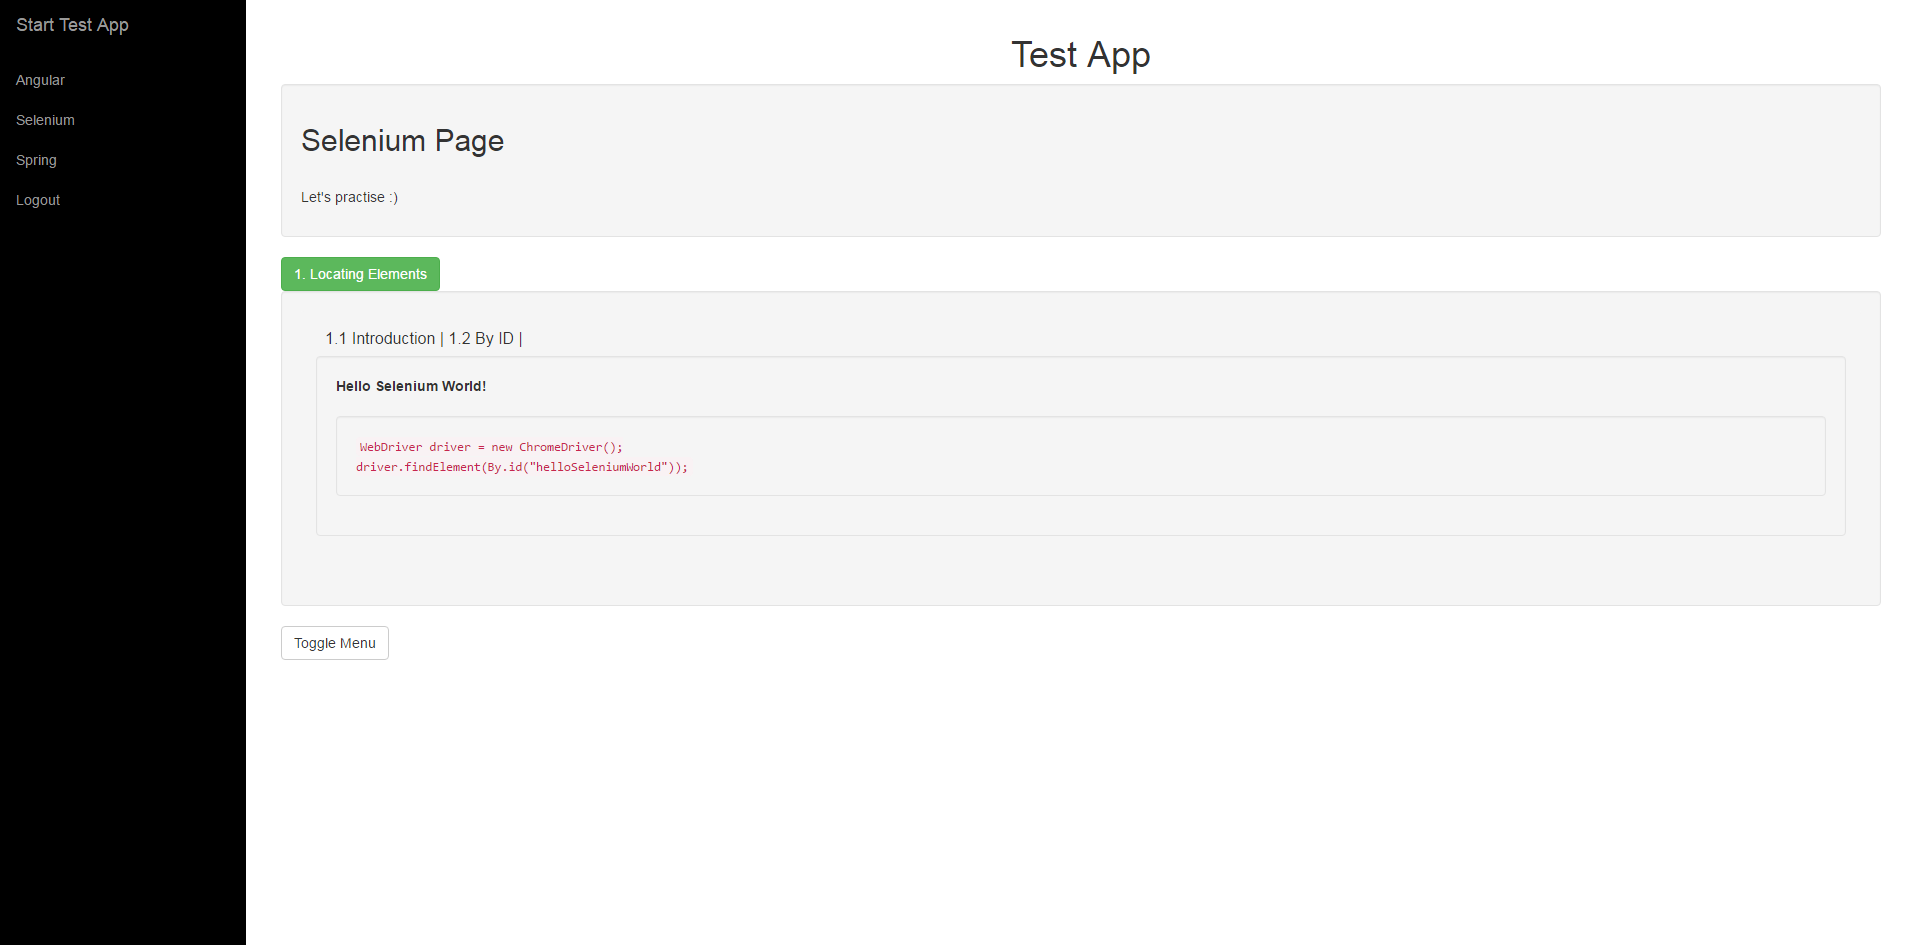
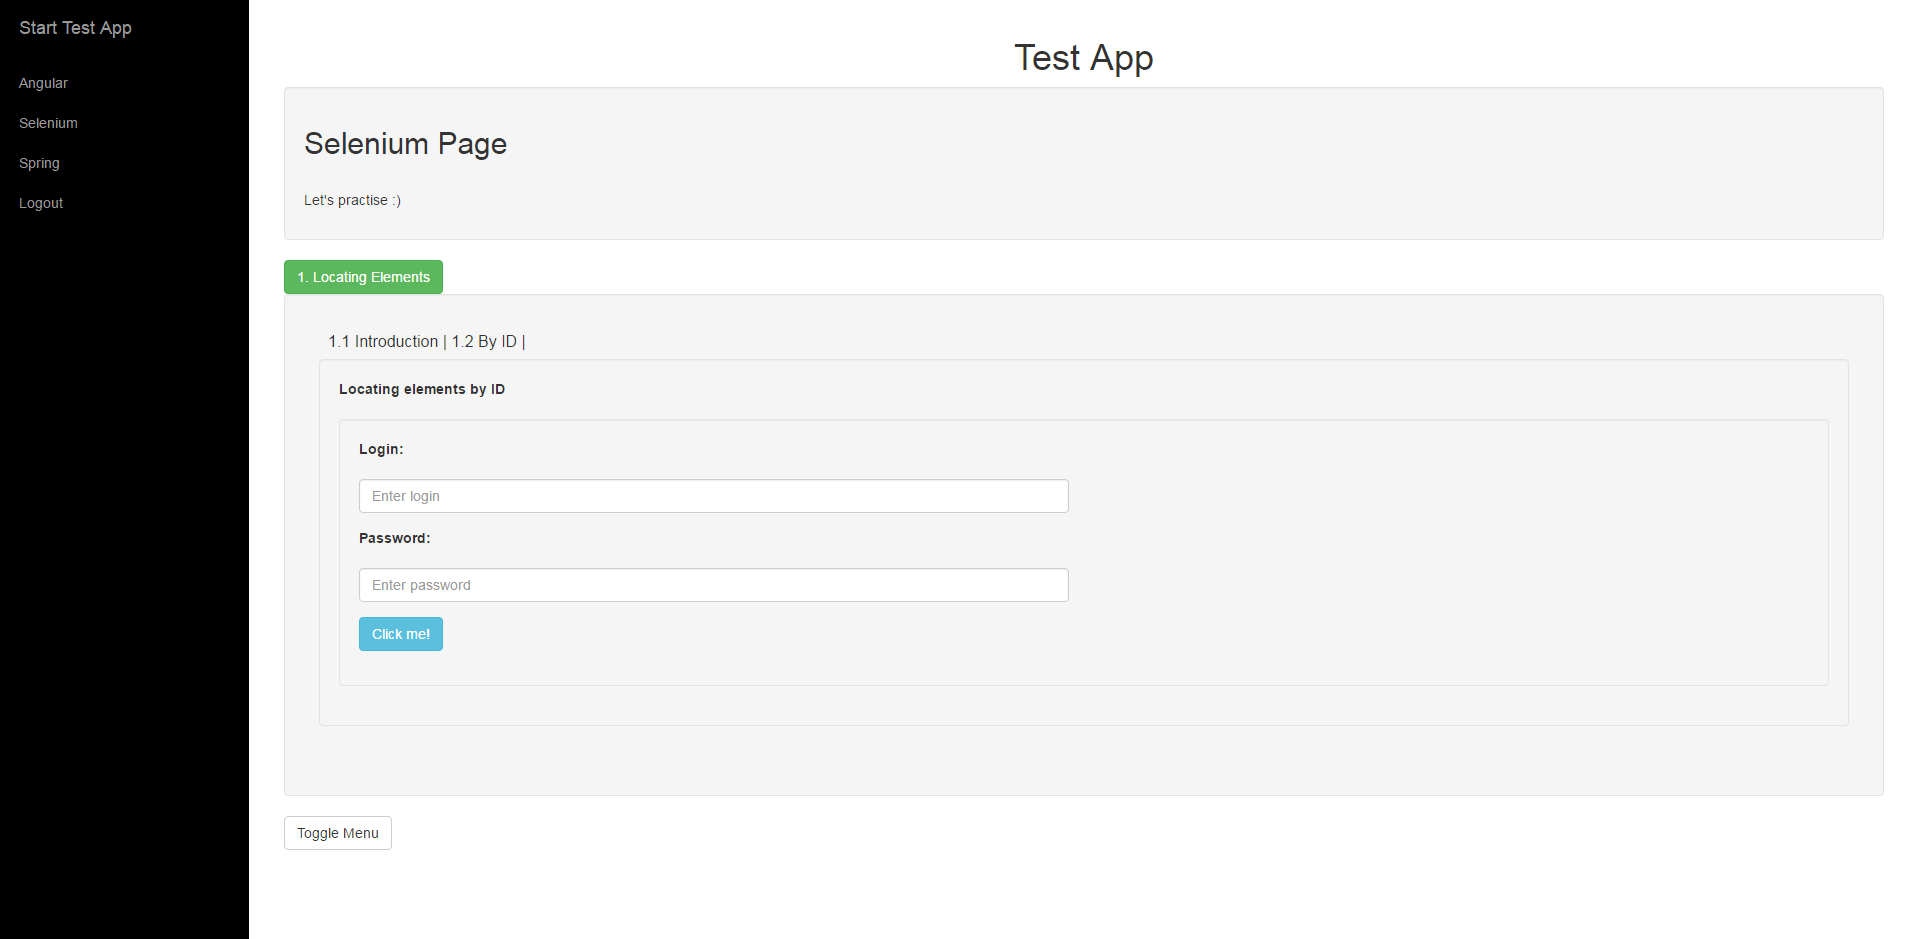
Selenium: 1.2 Created ITLocatingElementsTests (by id)
[Html]
- added inputs and button to locating elements by id view

[Selenium]
+ new interface test for locating elements on the page by ID
+ small fixes into readme and other files

diff --git a/src/main/webapp/app/core/selenium/views/locating/selenium-locating-id.html b/src/main/webapp/app/core/selenium/views/locating/selenium-locating-id.html
@@ -4,7 +4,29 @@
         <label class="controls-pane col-sm-2">Locating elements by ID</label>
     </div>
     <div class="well">
-
+        <form class="form-horizontal" role="form">
+            <div class="form-group">
+                <label class="col-sm-1" for="login">Login:</label>
+            </div>
+            <div class="form-group">
+                <div class="col-sm-6">
+                    <input class="form-control" id="login" type="text" placeholder="Enter login">
+                </div>
+            </div>
+            <div class="form-group">
+                <label class="col-sm-1" for="login">Password:</label>
+            </div>
+            <div class="form-group">
+                <div class="col-sm-6">
+                    <input class="form-control" id="password" type="password" placeholder="Enter password">
+                </div>
+            </div>
+            <div class="form-group">
+                <div class="col-sm-2">
+                    <button class="btn btn-info" id="clickMeButton">Click me!</button>
+                </div>
+            </div>
+        </form>
     </div>
 </form>
 <!-- /#selenium-locating-id -->

diff --git a/src/main/webapp/app/core/selenium/views/locating/selenium-locating-introduction.html b/src/main/webapp/app/core/selenium/views/locating/selenium-locating-introduction.html
@@ -5,7 +5,10 @@
     </div>
     <div class="well">
         <code>
-            WebDriver driver = new ChromeDriver();<br>
+            // Optional, if not specified, WebDriver will search your path for chromedriver.<br />
+            System.setProperty("webdriver.chrome.driver", "/path/to/chromedriver");<br /><br />
+
+            WebDriver driver = new ChromeDriver();<br />
             driver.findElement(By.id("helloSeleniumWorld"));
         </code>
     </div>

diff --git a/src/main/webapp/app/core/login/login.view.html b/src/main/webapp/app/core/login/login.view.html
@@ -40,13 +40,6 @@
     </div>
 </div>
 
-<div class="row">
-    <div class="col-sm-6">
-        <div ui-view="columnOne"></div>
-    </div>
-    <div class="col-sm-6">
-        <div ui-view="columnTwo"></div>
-    </div>
-</div>
+
 <br>
 <!-- /#login.view.html -->

diff --git a/src/test/java/pl/wimiip/interfaceTests/tests/locating/ITLocatingElementsTest.java b/src/test/java/pl/wimiip/interfaceTests/tests/locating/ITLocatingElementsTest.java
@@ -1,14 +1,18 @@
 package pl.wimiip.interfaceTests.tests.locating;
 
+import org.junit.After;
 import org.junit.Before;
 import org.junit.Test;
 import org.junit.runner.RunWith;
+import org.openqa.selenium.By;
+import org.openqa.selenium.support.ui.ExpectedConditions;
 import org.springframework.boot.test.SpringApplicationConfiguration;
 import org.springframework.test.context.junit4.SpringJUnit4ClassRunner;
 import org.springframework.test.context.web.WebAppConfiguration;
 import pl.wimiip.TestApp;
 import pl.wimiip.interfaceTests.config.ITConfigurationForChromeBrowser;
 import pl.wimiip.interfaceTests.tests.CommonMethods;
+import static org.junit.Assert.*;
 
 /**
  * Created by nishi on 2016-06-19.
@@ -29,7 +33,33 @@ public class ITLocatingElementsTest extends ITConfigurationForChromeBrowser {
 
     @Test
     public void testLocatingElementById() {
-
+        assertTrue(wait.until(ExpectedConditions.urlContains("locating")));
+        wait.until(ExpectedConditions.visibilityOfElementLocated(By.partialLinkText("1.2"))).click();
+        fillInForm("Maciek", "test");
+        clearForm();
     }
 
+    @After
+    public void tearDown() {
+        System.out.println("Cleaning after " + ITLocatingElementsTest.class.getSimpleName());
+    }
+
+    private void fillInForm(String login, String password) {
+        wait.until(ExpectedConditions.visibilityOfElementLocated(By.id("login"))).sendKeys(login);
+        driver.findElement(By.id("password")).sendKeys(password);
+        assertNotNull(driver.findElement(By.id("clickMeButton")));
+        driver.findElement(By.id("clickMeButton")).click();
+    }
+
+    private void clearForm() {
+        if(wait.until(ExpectedConditions.visibilityOfElementLocated(By.id("login"))).isDisplayed()
+            && wait.until(ExpectedConditions.visibilityOfElementLocated(By.id("login"))).getText() != null) {
+            driver.findElement(By.id("login")).clear();
+            assertEquals("", driver.findElement(By.id("login")).getText());
+        }
+        if(wait.until(ExpectedConditions.visibilityOfElementLocated(By.id("password"))).isDisplayed()
+                && wait.until(ExpectedConditions.visibilityOfElementLocated(By.id("password"))).getText() != null)
+            driver.findElement(By.id("password")).clear();
+            assertEquals("", driver.findElement(By.id("login")).getText());
+        }
 }

diff --git a/src/test/java/pl/wimiip/interfaceTests/tests/CommonMethods.java b/src/test/java/pl/wimiip/interfaceTests/tests/CommonMethods.java
@@ -11,21 +11,20 @@ public class CommonMethods extends ITConfigurationForChromeBrowser {
 
     public void logIn() {
         driver.get("http://localhost:8080/#/");
-        wait.until(ExpectedConditions.visibilityOfElementLocated(By.linkText("Login")));
-        driver.findElement(By.linkText("Login")).click();
+        wait.until(ExpectedConditions.visibilityOfElementLocated(By.linkText("Login"))).click();
         fillInForm();
+        wait.until(ExpectedConditions.visibilityOfElementLocated(By.linkText("Selenium"))).click();
+        wait.until(ExpectedConditions.visibilityOfElementLocated(By.tagName("button"))).click();
     }
 
     private void fillInForm() {
-        wait.until(ExpectedConditions.visibilityOfElementLocated(By.name("login")));
-        driver.findElement(By.name("login")).click();
+        wait.until(ExpectedConditions.visibilityOfElementLocated(By.name("login"))).click();
         driver.findElement(By.name("login")).sendKeys("maciek");
         driver.findElement(By.name("password")).click();
         driver.findElement(By.name("password")).sendKeys("test");
         driver.findElement(By.name("email")).click();
         driver.findElement(By.name("email")).sendKeys("maciek@test.pl");
-        wait.until(ExpectedConditions.elementToBeClickable(By.tagName("button")));
-        driver.findElement(By.tagName("button")).click();
+        wait.until(ExpectedConditions.elementToBeClickable(By.tagName("button"))).click();
         wait.until(ExpectedConditions.urlContains("home"));
     }
 
